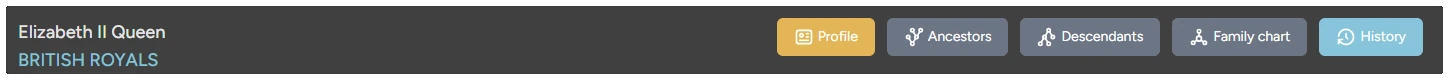
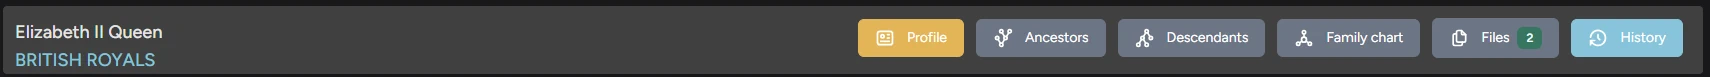
Update Help

Changed region(s): [[0.0, 0.0, 1.0, 1.0]]

diff --git a/resources/markdown/help.md b/resources/markdown/help.md
@@ -336,7 +336,14 @@ Click on a family member name to see that person's family chart.
 
 <img src="img/help/genealogy-072.webp" class="rounded" alt="Family chart">
 
-### j. History
+### j. Files
+
+This shows the files attached to the person.<br/>
+You can use this feature to attach documentation.
+
+<img src="img/help/genealogy-074.webp" class="rounded" alt="Files">
+
+### k. History
 
 This shows the history of the selected person.<br/>
 
